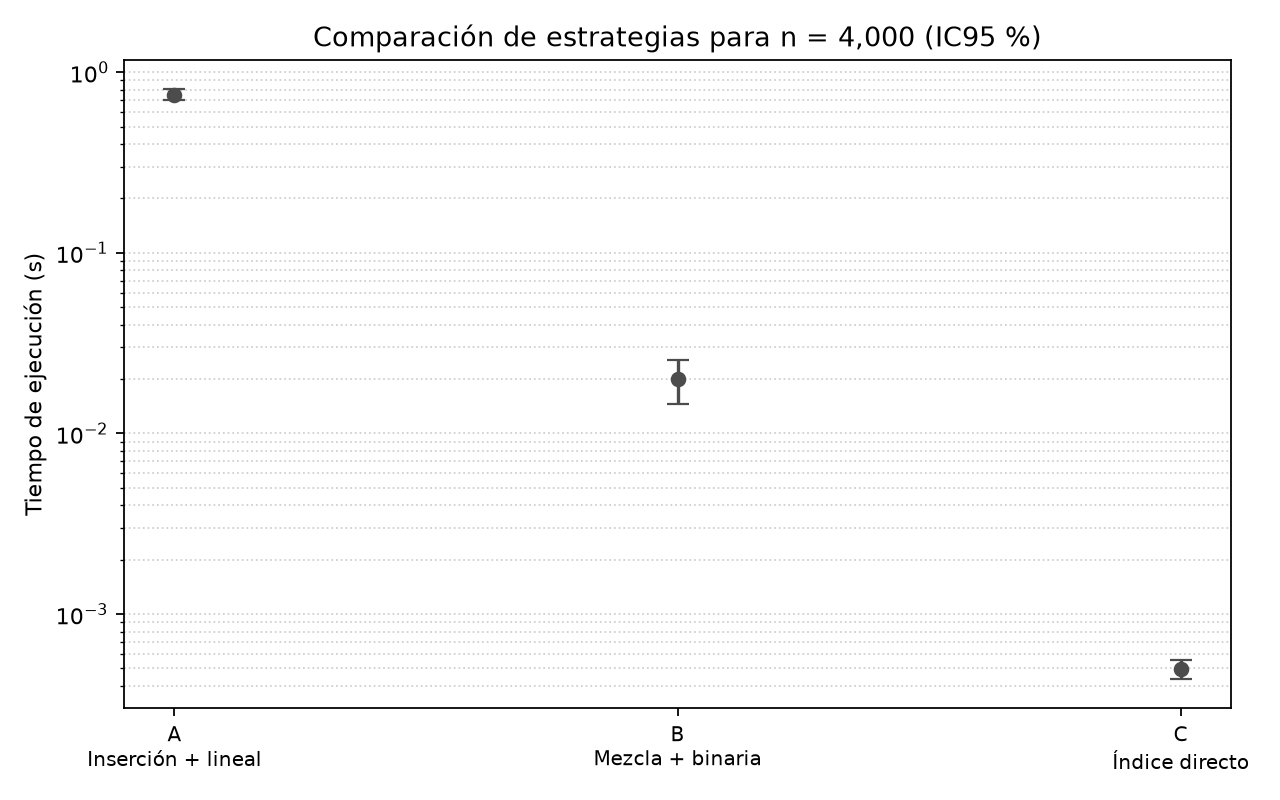
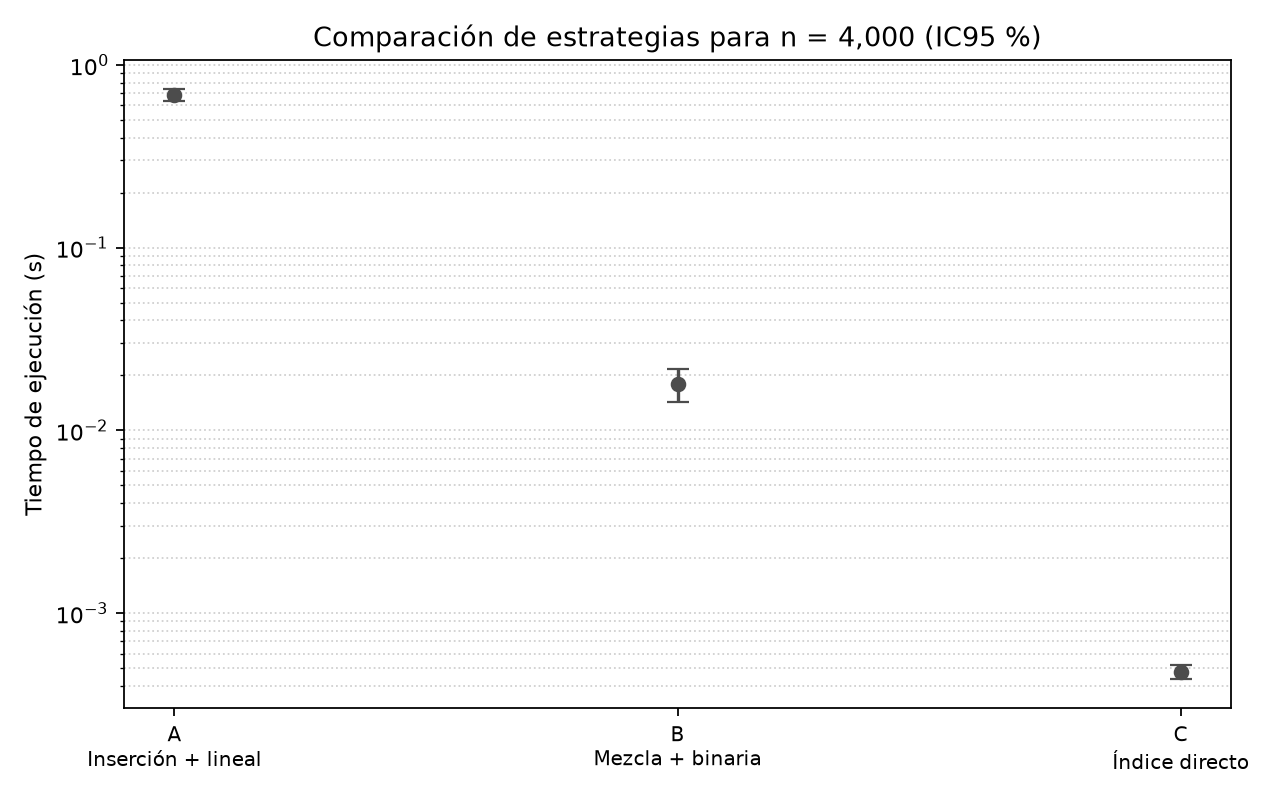
Actualiza análisis con la serie controlada
Integra la tercera serie A/B/C, recalcula estadísticas y gráficos, y actualiza informe, protocolo y entorno. Conserva explícitamente la variabilidad restante.

diff --git a/docs/informe.md b/docs/informe.md
@@ -1,19 +1,19 @@
 # Informe científico breve — Equipo 7
 
 **Título:** Comparación de estrategias de búsqueda y ordenamiento para el catálogo MercaRed
-**Integrantes:** nombres pendientes de confirmar · **Fecha:** 2026-11-25
+**Integrantes:** A, B y MigueLoaiza7 (C); nombres completos de A y B pendientes · **Fecha:** 2026-11-25
 **Repositorio:** MigueLoaiza7/04_proyecto_Equipos-Equipo-07-MercaRed
 
 ## Resumen
 
 Se compararon A (inserción y búsqueda lineal), B (mezcla y búsqueda binaria) y
 C (índice directo) en Windows 10, CPython 3.12.10, con la misma semilla, tres
-tamaños y dos series de diez repeticiones. B y C tuvieron menores tiempos
+tamaños y tres series de diez repeticiones. B y C tuvieron menores tiempos
 medios que A en el rango de 1 000–4 000 productos; B usó menos memoria que C.
-Sin embargo, las 20 muestras combinadas superaron CV 10 % en todas las
-combinaciones. La medición es exploratoria: se conservan ambas series y se
-requiere una sesión mejor controlada antes de conclusiones firmes o extrapolar
-a 500 000 productos.
+La tercera serie se hizo bajo condiciones controladas.
+Aun así, las 30 muestras combinadas superaron CV 10 % en todas las
+combinaciones. La medición sigue siendo exploratoria y no permite extrapolar
+con confianza a 500 000 productos.
 
 ## 1. Introducción
 
@@ -38,36 +38,37 @@ como evidencia provisional.
 - **C:** diccionario código-producto, construido dentro de cada ejecución.
 - Se usaron tamaños n = 1 000, 2 000 y 4 000, semilla 7, orden aleatorio con
   semilla 42, calentamiento y preparación de datos fuera del cronómetro.
-- Se hicieron dos series independientes de 10 tiempos por estrategia y tamaño.
+- Se hicieron tres series independientes de 10 tiempos por estrategia y tamaño.
   Cada combinación tuvo una corrida separada de memoria por serie.
 - Tiempo medido con `time.perf_counter`; pico de memoria Python con
   `tracemalloc`. Las limitaciones del entorno se detallan en [docs/entorno.md](./entorno.md).
-- Las dos series se conservaron por separado; el resumen adicional agrupa sus
-  20 tiempos sin descartar datos.
+- Las tres series se conservaron por separado; el resumen adicional agrupa sus
+  30 tiempos sin descartar datos. La tercera serie se identificó como controlada
+  después de CV altos en las dos primeras.
 
 ## 4. Resultados
 
-Comparación formal A/B/C del 25-11-2026. Valores agrupados de ambas series
-(20 tiempos por combinación); IC95 % t de Student con 19 grados de libertad.
-La memoria es el promedio de dos corridas separadas de `tracemalloc`, no una
+Comparación formal A/B/C del 25-11-2026. Valores agrupados de las tres series
+(30 tiempos por combinación); IC95 % t de Student con 29 grados de libertad.
+La memoria es el promedio de tres corridas separadas de `tracemalloc`, no una
 medición repetida para calcular un intervalo.
 
 | Estrategia | n | Media t (s) | Desv. estándar (s) | CV (%) | IC95 % t (s) | Pico Python medio (MiB) |
 |---|---:|---:|---:|---:|---:|---:|
-| A | 1 000 | 0.044441 | 0.007026 | 15.81 | [0.041153, 0.047729] | 0.009 |
-| A | 2 000 | 0.170146 | 0.029874 | 17.56 | [0.156165, 0.184128] | 0.017 |
-| A | 4 000 | 0.751516 | 0.114270 | 15.21 | [0.698036, 0.804995] | 0.032 |
-| B | 1 000 | 0.005322 | 0.008376 | 157.41 | [0.001401, 0.009242] | 0.016 |
-| B | 2 000 | 0.007765 | 0.001272 | 16.38 | [0.007169, 0.008360] | 0.032 |
-| B | 4 000 | 0.019949 | 0.011667 | 58.49 | [0.014489, 0.025410] | 0.062 |
-| C | 1 000 | 0.000139 | 0.000047 | 34.02 | [0.000117, 0.000161] | 0.054 |
-| C | 2 000 | 0.000237 | 0.000059 | 24.78 | [0.000210, 0.000264] | 0.106 |
-| C | 4 000 | 0.000497 | 0.000128 | 25.70 | [0.000437, 0.000557] | 0.212 |
+| A | 1 000 | 0.042623 | 0.006849 | 16.07 | [0.040066, 0.045180] | 0.009 |
+| A | 2 000 | 0.160936 | 0.029517 | 18.34 | [0.149915, 0.171956] | 0.017 |
+| A | 4 000 | 0.687086 | 0.131305 | 19.11 | [0.638061, 0.736110] | 0.032 |
+| B | 1 000 | 0.004617 | 0.006863 | 148.65 | [0.002055, 0.007180] | 0.016 |
+| B | 2 000 | 0.007796 | 0.001480 | 18.98 | [0.007244, 0.008349] | 0.032 |
+| B | 4 000 | 0.018019 | 0.009882 | 54.84 | [0.014329, 0.021709] | 0.062 |
+| C | 1 000 | 0.000132 | 0.000040 | 30.47 | [0.000117, 0.000147] | 0.054 |
+| C | 2 000 | 0.000227 | 0.000051 | 22.34 | [0.000208, 0.000246] | 0.106 |
+| C | 4 000 | 0.000477 | 0.000111 | 23.27 | [0.000436, 0.000519] | 0.212 |
 
-La pendiente log-log calculada sobre las medias agrupadas es A = 2.04,
-B = 0.95 y C = 0.92 para el rango medido. La media de B en n = 4 000 fue
-97.34 % menor que A, por lo que satisface la predicción puntual de H4; no se
-considera concluyente porque CV de B fue 58.49 %. El criterio CV ≤ 10 % no se
+La pendiente log-log calculada sobre las medias agrupadas es A = 2.01,
+B = 0.98 y C = 0.93 para el rango medido. La media de B en n = 4 000 fue
+97.38 % menor que A, por lo que satisface la predicción puntual de H4; no se
+considera concluyente porque CV de B fue 54.84 %. El criterio CV ≤ 10 % no se
 alcanzó en ninguna combinación agrupada; las CV por serie se encuentran en
 [resultados/resumen_estadistico_A_B_C.csv](../resultados/resumen_estadistico_A_B_C.csv).
 
@@ -77,10 +78,12 @@ alcanzó en ninguna combinación agrupada; las CV por serie se encuentran en
 La primera serie de B en n = 1 000 contiene una observación de 0.040827 s,
 mientras las otras nueve estuvieron entre 0.002972 y 0.003459 s. No se conoce
 la causa; se conservó y no se descartó como atípica. La segunda serie de esa
-combinación tuvo CV 20.78 %. Tampoco se registraron aplicaciones abiertas ni
-perfil de energía, por lo que la carga del equipo es una limitación. No hubo
-sensores disponibles para frecuencia, temperatura, RSS o energía; no se afirma
-ahorro energético.
+combinación tuvo CV 20.78 %. En la tercera serie, realizada tras confirmarse
+corriente, perfil equilibrado y cierre de aplicaciones pesadas, dos de nueve
+combinaciones quedaron bajo CV 10 %; el CV combinado siguió superando el umbral
+en las nueve. La confirmación de las condiciones fue manual, no sensorizada.
+No hubo sensores disponibles para frecuencia, temperatura, RSS o energía; no
+se afirma ahorro energético.
 
 Como referencia histórica independiente, el 18-11-2026 se midieron A y C con
 CPython 3.14.7; esos datos no se mezclan ni comparan en tiempos absolutos con
@@ -89,14 +92,15 @@ esta serie CPython 3.12.10.
 ## 5. Discusión
 
 Los promedios muestran B y C más rápidos que A. H1 recibe apoyo descriptivo,
-pero no se confirma estadísticamente con la dispersión observada. Para H2, C
-creció 1.71× y 2.10× al duplicar n, dentro del intervalo previsto; es
-compatible con crecimiento lineal, aunque tres tamaños y CV altos no prueban
-complejidad asintótica. H3 recibe apoyo: C usó 0.054/0.106/0.212 MiB frente a
-0.009/0.017/0.032 MiB de A. La pendiente empírica de B y C no demuestra por sí
-sola complejidad asintótica. B requiere memoria auxiliar para ordenar; C usa
-más memoria por el índice. H4 cumple el umbral puntual, pero debe repetirse
-con carga controlada porque se incumplió el criterio de dispersión.
+pero no se realizó una prueba inferencial de diferencia entre estrategias y la
+dispersión impide una conclusión firme. Para H2, C creció 1.72× y 2.10× al
+duplicar n, dentro del intervalo previsto; esto es compatible con crecimiento
+lineal, aunque tres tamaños y CV altos no prueban complejidad asintótica. H3
+recibe apoyo: C usó 0.054/0.106/0.212 MiB frente a 0.009/0.017/0.032 MiB de A.
+La pendiente empírica de B y C tampoco demuestra por sí sola complejidad
+asintótica. B requiere memoria auxiliar para ordenar; C usa más memoria por el
+índice. H4 cumple el umbral puntual, pero los resultados siguen siendo
+exploratorios porque el CV combinado excede el criterio.
 
 ## 6. Propuesta de mejora para la empresa
 
@@ -108,15 +112,18 @@ el rango de n y medir memoria de proceso además de `tracemalloc`.
 ## 7. Conclusiones
 
 La verificación funcional confirma que A, B y C devuelven el mismo número de
-consultas encontradas. En esta máquina y rango, B y C presentan menores medias
-de tiempo, con mayor memoria para C; la dispersión excede el criterio fijado,
-así que el resultado es preliminar y requiere nuevas mediciones controladas.
+consultas encontradas. En esta máquina y rango, B promedió 0.018019 s frente a
+0.687086 s de A en n = 4 000, pero CV combinado fue 54.84 %. C también tuvo
+menores medias y mayor memoria trazada que A. La dispersión excede el criterio,
+así que el resultado sigue siendo preliminar y no se extrapola a 500 000.
 
 ## 8. Referencias
 
 - Python `time.perf_counter`: https://docs.python.org/3/library/time.html#time.perf_counter
 - Python `tracemalloc`: https://docs.python.org/3/library/tracemalloc.html
-- Registro de mediciones y fuente CSV: `resultados/resultados_A_B_C_serie1.csv` y `resultados/resultados_A_B_C_serie2.csv`.
+- Registro de mediciones y fuente CSV: `resultados/resultados_A_B_C_serie1.csv`,
+  `resultados/resultados_A_B_C_serie2.csv` y
+  `resultados/resultados_A_B_C_serie3.csv`.
 
 ## Anexo: uso de IA
 

diff --git a/README.md b/README.md
@@ -44,7 +44,8 @@ python -m unittest discover -s pruebas                   # corrección
 python -m experimentos.ejecutar_experimento --salida resultados/resultados_A_B_C_serie1.csv
 # Si el CV supera 10 %, conservar la primera serie y repetir en archivo separado:
 python -m experimentos.ejecutar_experimento --salida resultados/resultados_A_B_C_serie2.csv --observacion "serie adicional CV"
-python -m experimentos.analizar_resultados resultados/resultados_A_B_C_serie1.csv resultados/resultados_A_B_C_serie2.csv
+python -m experimentos.ejecutar_experimento --salida resultados/resultados_A_B_C_serie3.csv --observacion "serie controlada"
+python -m experimentos.analizar_resultados resultados/resultados_A_B_C_serie1.csv resultados/resultados_A_B_C_serie2.csv resultados/resultados_A_B_C_serie3.csv
 ```
 
 El resumen incluye media, desviación estándar, CV, IC95 % y pendiente log-log.
@@ -54,10 +55,10 @@ Los gráficos se generan en `resultados/grafico_tiempo_loglog.png` y
 ## 7. Integrantes y roles
 | Rol | Integrante | Responsabilidad principal |
 |---|---|---|
-| R1 — Coordinación y protocolo experimental | _(nombre)_ | Mantiene el protocolo y la bitácora de decisiones; controla variables; modera issues y la planeación. |
-| R2 — Desarrollo de estrategia base | _(nombre)_ | Comprende y documenta la línea base; asegura la verificación de corrección (pruebas) de todas las estrategias. |
-| R3 — Estrategias alternativas y optimización | _(nombre)_ | Diseña e implementa las estrategias alternativas y justifica físicamente por qué deberían cambiar las magnitudes. |
-| R4 — Automatización de mediciones y análisis | _(nombre)_ | Automatiza experimentos y registro CSV; produce estadísticas y gráficos; documenta el entorno. |
+| R1 — Coordinación y protocolo experimental | Integrante A | Mantiene el protocolo y la bitácora de decisiones; controla variables; modera issues y la planeación. |
+| R2 — Desarrollo de estrategia base | Integrante B | Comprende y documenta la línea base; asegura la verificación de corrección (pruebas) de todas las estrategias. |
+| R3 — Estrategias alternativas y optimización | Integrantes B y C | Diseñan e implementan estrategias alternativas y justifican sus efectos. |
+| R4 — Automatización de mediciones y análisis | Integrantes A y C | Automatizan experimentos y registro CSV; producen estadísticas y gráficos; documentan el entorno. |
 
 Los roles son flexibles: **todos** participan en la comprensión física y en el código.
 
@@ -66,10 +67,11 @@ Los roles son flexibles: **todos** participan en la comprensión física y en el
 - [Decisiones técnicas](docs/decisiones.md) · [Uso de IA](docs/uso_ia.md) · [Informe](docs/informe.md)
 
 ## 9. Resultados y conclusiones (Clase 5)
-Resumen: en las dos series A/B/C del 25-11-2026 (20 tiempos combinados por
+Resumen: en las tres series A/B/C del 25-11-2026 (30 tiempos combinados por
 estrategia/tamaño), B y C tuvieron menores tiempos medios que A entre 1 000 y
-4 000 productos. Las CV combinadas aún exceden 10 %, por lo que los resultados
-son preliminares; detalles, intervalos y limitaciones están en
+4 000 productos. Una tercera serie controlada mejoró algunas combinaciones,
+pero todas las CV combinadas aún exceden 10 %; los resultados siguen siendo
+exploratorios. Detalles, intervalos y limitaciones están en
 [docs/informe.md](docs/informe.md). No se extrapola a 500 000 productos.
 
 ### Estrategia C
@@ -94,10 +96,11 @@ en n=2 000 y 1 416 veces en n=4 000. Al duplicar n, C pasó de 0.000128 s a
 construcción lineal del índice dentro del rango medido. C usó 0.054, 0.106 y
 0.212 MiB, aproximadamente 6×, 6.24× y 6.63× la memoria trazada de A.
 
-Los resultados se consideran reales únicamente cuando aparecen en
-`resultados/resultados.csv`, generado por el experimento. Las corridas con
-`tracemalloc` están separadas de las mediciones de tiempo y no deben
-interpretarse como tiempos normales.
+Estos datos históricos se conservan en `resultados/resultados.csv`. La
+comparación A/B/C de noviembre 25 está en los tres CSV de serie y en
+`resultados/resumen_estadistico_A_B_C.csv`. Las corridas con `tracemalloc`
+están separadas de las mediciones de tiempo y no deben interpretarse como
+tiempos normales.
 
 Las hipótesis y variables están documentadas en
 [docs/hipotesis.md](docs/hipotesis.md) y

diff --git a/docs/protocolo.md b/docs/protocolo.md
@@ -1,6 +1,6 @@
 # Protocolo experimental reproducible
 
-**Responsable:** R1 · **Revisado por:** todos · **Versión:** 1 · **Fecha:**
+**Responsables:** Integrante A (R1/R4) · **Revisado por:** Integrantes B y C · **Versión:** 1 · **Fecha:**
 
 ## 1. Objetivo del experimento
 
@@ -21,8 +21,9 @@ memoria Python y RSS disponible.
 | 2 | Prueba de humo | `python -m experimentos.ejecutar_experimento --rapido` | CSV |
 | 3 | Primera serie formal | `python -m experimentos.ejecutar_experimento --salida resultados/resultados_A_B_C_serie1.csv` | CSV y entorno JSON |
 | 4 | Serie adicional si CV > 10 % | `python -m experimentos.ejecutar_experimento --salida resultados/resultados_A_B_C_serie2.csv --observacion "serie adicional CV"` | CSV y entorno JSON separados |
-| 5 | Análisis y gráficos | `python -m experimentos.analizar_resultados resultados/resultados_A_B_C_serie1.csv resultados/resultados_A_B_C_serie2.csv` | CSV resumen y dos PNG |
-| 6 | (Opcional) monitoreo | `python herramientas/... monitor_sistema.py` en otra terminal | `resultados/monitor.csv` |
+| 5 | Serie controlada tras CV alto | `python -m experimentos.ejecutar_experimento --salida resultados/resultados_A_B_C_serie3.csv --observacion "serie controlada"` | CSV y entorno JSON separados |
+| 6 | Análisis y gráficos | `python -m experimentos.analizar_resultados resultados/resultados_A_B_C_serie1.csv resultados/resultados_A_B_C_serie2.csv resultados/resultados_A_B_C_serie3.csv` | CSV resumen y dos PNG |
+| 7 | (Opcional) monitoreo | `python herramientas/... monitor_sistema.py` en otra terminal | `resultados/monitor.csv` |
 
 ## 4. Parámetros
 - Tamaños n: 1 000, 2 000 y 4 000. Justificación: rango ejecutable y comparable en el laboratorio.
@@ -38,8 +39,9 @@ memoria Python y RSS disponible.
   documentada. Ejecutar una serie adicional de 10 repeticiones en un CSV
   separado con `--observacion "serie adicional CV"`, y reportar ambas series
   y el resumen combinado; no sustituir resultados silenciosamente. Si el CV
-  permanece sobre el umbral, declarar los resultados exploratorios y repetir
-  en una sesión mejor controlada.
+  permanece sobre el umbral tras repetir en condiciones controladas, declarar
+  los resultados exploratorios y describir las limitaciones; no añadir series
+  sin registrar qué condición se busca controlar.
 - Valores atípicos (regla de Tukey): se reportan; solo se excluyen con causa documentada.
 
 ## 6. Registro de incidentes

diff --git a/docs/uso_ia.md b/docs/uso_ia.md
@@ -6,7 +6,7 @@ verificar todo lo que la IA produce y de poder explicarlo sin ella.**
 | # | Fecha | Integrante | Herramienta | Propósito (investigar, depurar, alternativas...) | Consulta (resumen) | ¿Qué se usó de la respuesta? | ¿Cómo se verificó? | Errores o suposiciones detectadas en la respuesta |
 |---|---|---|---|---|---|---|---|---|
 | 1 | 2026-11-18 | Equipo 7 / Copilot SDK | Copilot SDK en VS Code | Implementar, medir y documentar Estrategia C | Definir índice directo y compararlo con A | módulo, pruebas y actualización del experimento/documentación | Ejecutar unittest, prueba rápida y experimento formal | Verificar que el uso de clave coincide con el código base y que no se afirman garantías físicas sin medición |
-| 2 | 2026-11-25 | MigueLoaiza7 (Integrante C) | Copilot SDK en VS Code | Implementar tercera estrategia y apoyar análisis | Ordenamiento por mezcla, búsqueda binaria y comparación A/B/C | Módulo, pruebas, mediciones reproducibles, resumen estadístico y gráficos | Ejecutar pruebas, prueba rápida, dos series formales y analizar CV/IC95 % | Las dos series conservaron CV > 10 % en varias combinaciones; no se ocultaron ni descartaron muestras |
+| 2 | 2026-11-25 | MigueLoaiza7 (Integrante C) | Copilot SDK en VS Code | Implementar tercera estrategia y apoyar análisis | Ordenamiento por mezcla, búsqueda binaria y comparación A/B/C | Módulo, pruebas, tres series formales, resumen estadístico y gráficos | Ejecutar pruebas, prueba rápida, analizar CV/IC95 % y revisar la serie controlada | El CV combinado siguió > 10 % en todas las combinaciones; no se ocultaron ni descartaron muestras |
 
 ## Reflexión individual (Clase 5, una por integrante)
 - **Nombre:**

diff --git a/docs/entorno.md b/docs/entorno.md
@@ -4,13 +4,16 @@
 - Sistema: Windows 10 · AMD64 · 8 núcleos lógicos
 - Python: CPython 3.12.10
 - Fecha de las series A/B/C: 2026-11-25
-- Aplicaciones y perfil de energía: no registrados durante estas corridas.
+- Series 1 y 2: aplicaciones y perfil de energía no registrados.
+- Serie 3: Integrante A/R1 confirmó conexión a corriente, perfil equilibrado y cierre de aplicaciones pesadas/sincronizadores antes de la corrida; esta confirmación es manual, no proviene de sensores.
 - Sensores: `psutil` no instalado; frecuencia, temperatura, RSS y energía no disponibles.
 - Datos: semilla fija 7; preparación fuera del cronómetro.
-- Series: 10 repeticiones por combinación en cada CSV; segunda serie ejecutada por CV > 10 %.
+- Series: 10 repeticiones por combinación en cada CSV; la segunda se ejecutó por CV > 10 % y la tercera bajo condiciones controladas.
 - Archivos de entorno completos: `resultados/resultados_A_B_C_serie1.entorno.json` y
-  `resultados/resultados_A_B_C_serie2.entorno.json`.
+  `resultados/resultados_A_B_C_serie2.entorno.json` y
+  `resultados/resultados_A_B_C_serie3.entorno.json`.
 
 Las mediciones de tiempo A/B/C se ejecutaron con el mismo equipo, versión de
-Python, datos y protocolo. No se combinan con la evidencia histórica A/C
-realizada con CPython 3.14.7.
+Python, datos y protocolo. Las condiciones de control de la serie 3 se anotaron
+en las filas del CSV; no se pueden verificar con sensores. No se combinan con
+la evidencia histórica A/C realizada con CPython 3.14.7.
